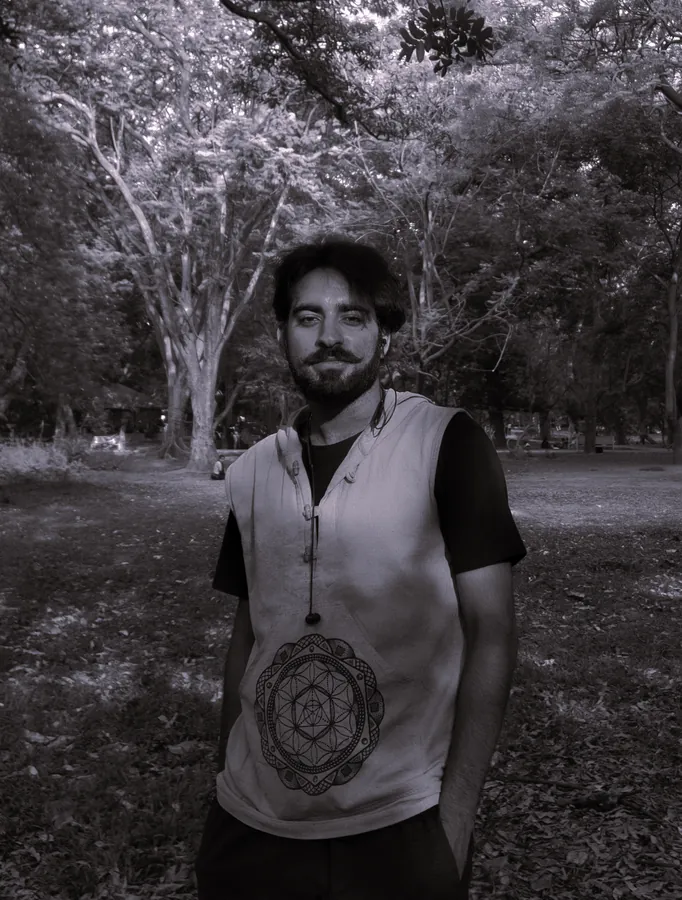
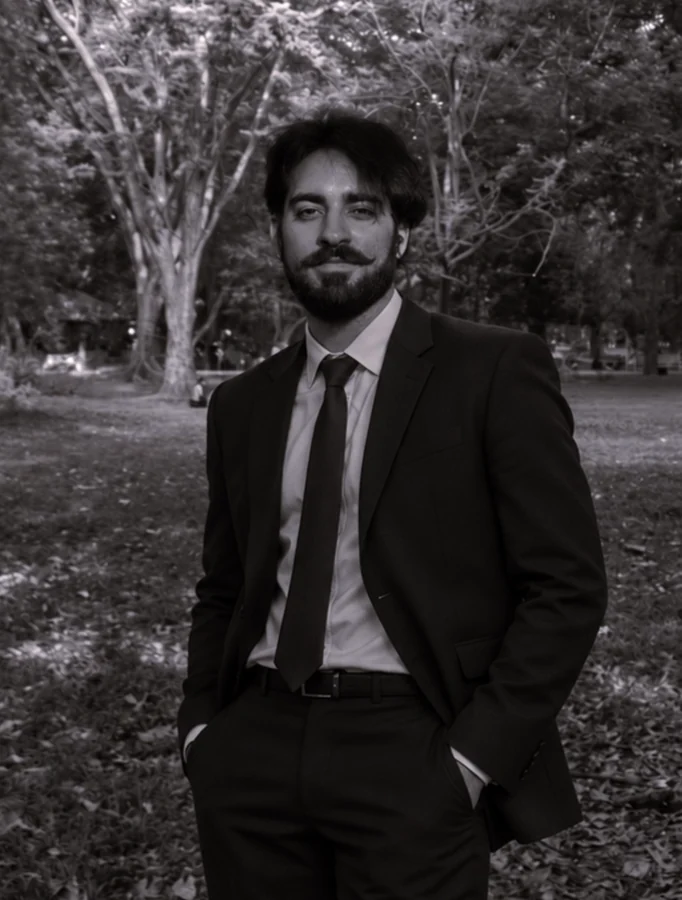
Replace portrait photo
Claude-Session: https://claude.ai/code/session_01ARoYiYpTtiZVxiDen4yF5Z

diff --git a/styles.css b/styles.css
@@ -236,7 +236,7 @@ section{position:relative}
 .hero h1{font-size:clamp(52px,min(8.6vw,14vh),140px)}
 .hero .bio{font-size:15px;color:var(--dim);max-width:520px;margin-top:14px;line-height:1.6}
 .hero-portrait{margin:0;aspect-ratio:682/900;overflow:hidden;background:var(--ink-2)}
-.hero-portrait img{width:100%;height:100%;object-fit:cover;filter:grayscale(1)}
+.hero-portrait img{width:100%;height:100%;object-fit:cover}
 @media (max-width:760px){
   .hero-body{grid-template-columns:1fr;gap:28px}
   .hero-portrait{order:-1;width:150px;margin-top:28px}
